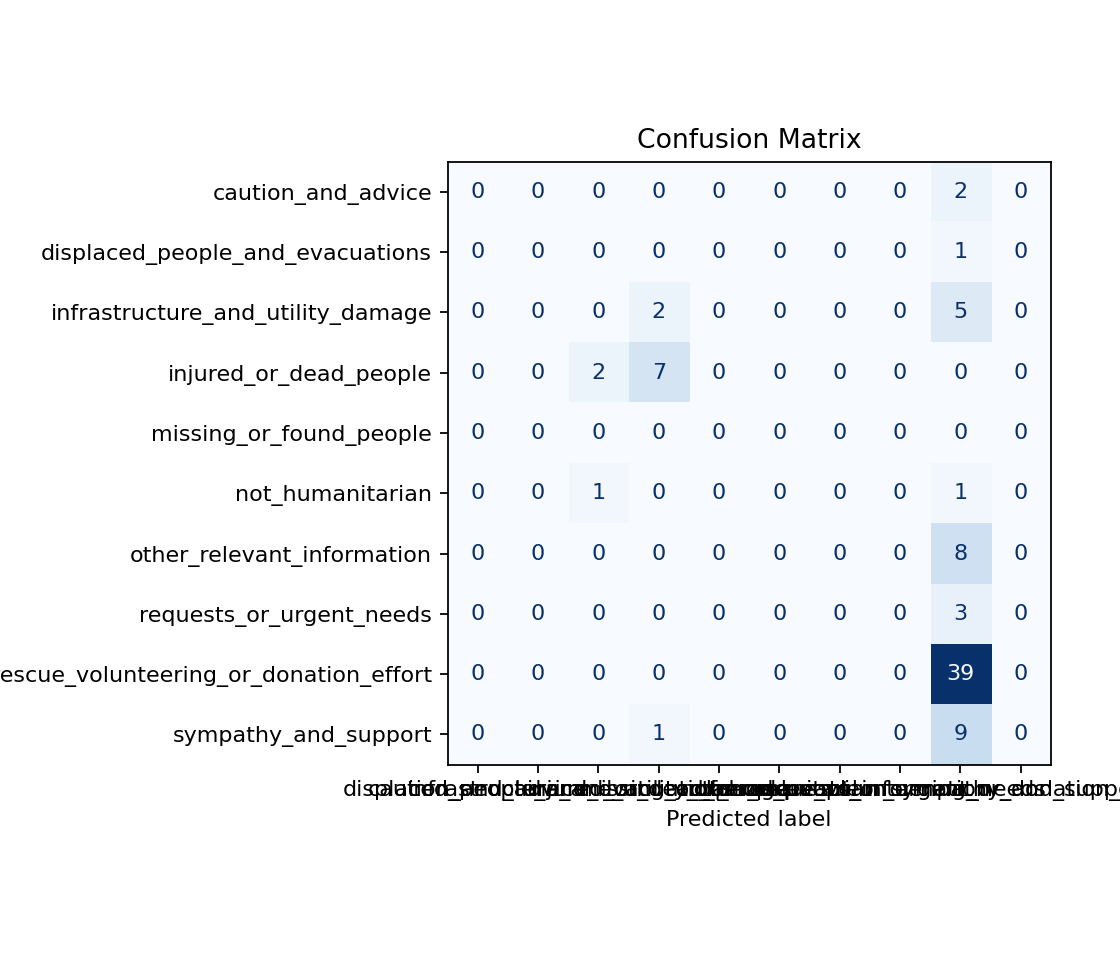
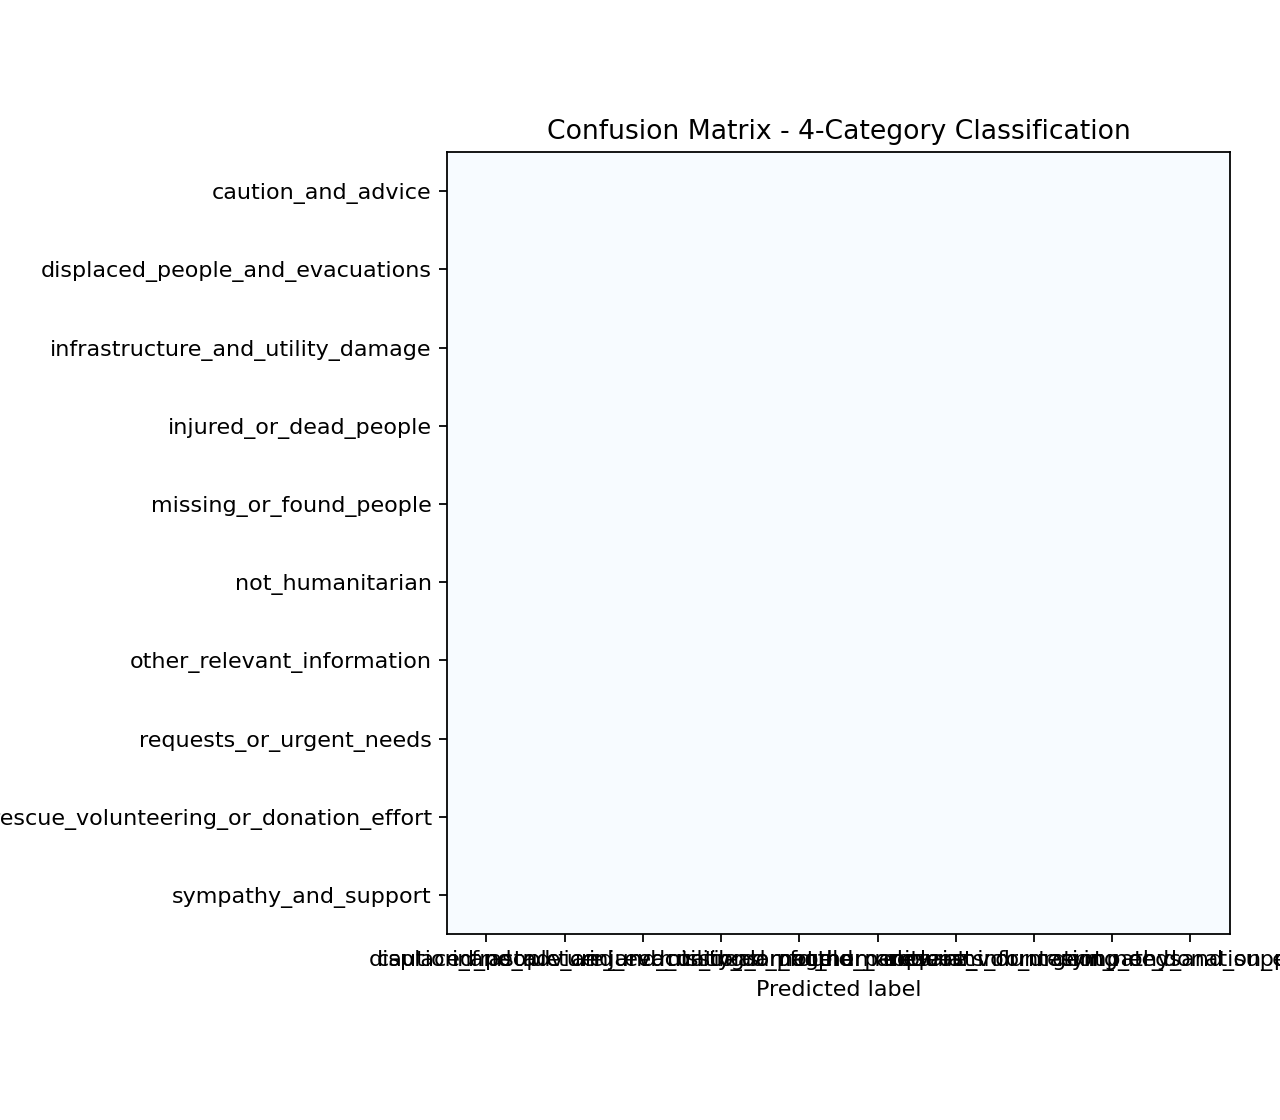
Complete model training with 5 epochs and generate evaluation reports

diff --git a/scripts/evaluate_model.py b/scripts/evaluate_model.py
@@ -1,43 +1,33 @@
 from __future__ import annotations
 
 from pathlib import Path
-import importlib.util
-import sys
-
-import joblib
+import torch
+import numpy as np
 import matplotlib.pyplot as plt
 import pandas as pd
 from sklearn.metrics import ConfusionMatrixDisplay, classification_report, confusion_matrix
 from sklearn.model_selection import train_test_split
+from transformers import AutoModelForSequenceClassification, AutoTokenizer, pipeline
 
 BASE_DIR = Path(__file__).resolve().parents[1]
 DATASET_PATH = BASE_DIR / "datasets" / "disaster_tweets.csv"
-MODEL_PATH = BASE_DIR / "models" / "model.joblib"
+MODEL_DIR = BASE_DIR / "models" / "distilbert_model"
 OUTPUT_DIR = BASE_DIR / "outputs" / "charts"
 
-
-def ensure_model_classes_loaded() -> None:
-    model_path = BASE_DIR / "scripts" / "train_model.py"
-    if not model_path.exists():
-        return
-    spec = importlib.util.spec_from_file_location("train_model", model_path)
-    if spec is None or spec.loader is None:
-        return
-    module = importlib.util.module_from_spec(spec)
-    spec.loader.exec_module(module)
-    main_mod = sys.modules.get("__main__")
-    if not main_mod:
-        return
-    for attr in ("TextPreprocessor", "FeatureEngineer", "passthrough_text"):
-        if hasattr(module, attr):
-            setattr(main_mod, attr, getattr(module, attr))
+# Class labels mapping
+CLASS_LABELS = {
+    0: "General Information",
+    1: "Rescue Request",
+    2: "Damage Report",
+    3: "Safety Update"
+}
 
 
 def main() -> int:
     OUTPUT_DIR.mkdir(parents=True, exist_ok=True)
 
-    if not MODEL_PATH.exists():
-        print(f"[evaluate_model] Missing model: {MODEL_PATH}")
+    if not MODEL_DIR.exists():
+        print(f"[evaluate_model] Missing model: {MODEL_DIR}")
         print("[evaluate_model] Run: py scripts\\train_model.py")
         return 2
 
@@ -70,10 +60,24 @@ def main() -> int:
         X, y, test_size=0.2, random_state=42, stratify=y if y.nunique() > 1 else None
     )
 
-    ensure_model_classes_loaded()
-    model = joblib.load(MODEL_PATH)
-    y_pred = model.predict(X_test)
-
+    # Load model and tokenizer
+    device = 0 if torch.cuda.is_available() else -1
+    model = AutoModelForSequenceClassification.from_pretrained(str(MODEL_DIR))
+    tokenizer = AutoTokenizer.from_pretrained(str(MODEL_DIR))
+    
+    # Create pipeline for inference
+    classifier = pipeline("text-classification", model=model, tokenizer=tokenizer, device=device)
+    
+    # Predict on test set
+    y_pred_labels = []
+    for text in X_test:
+        result = classifier(text, truncation=True, max_length=512)
+        # Pipeline returns the actual class label name
+        pred_label = result[0]["label"]
+        y_pred_labels.append(pred_label)
+    
+    y_pred = np.array(y_pred_labels)
+    
     report = classification_report(y_test, y_pred, digits=4)
     report_path = OUTPUT_DIR / "classification_report.txt"
     report_path.write_text(report, encoding="utf-8")
@@ -81,9 +85,9 @@ def main() -> int:
     labels = sorted(y.unique())
     cm = confusion_matrix(y_test, y_pred, labels=labels)
     disp = ConfusionMatrixDisplay(confusion_matrix=cm, display_labels=labels)
-    fig, ax = plt.subplots(figsize=(7, 6))
+    fig, ax = plt.subplots(figsize=(8, 7))
     disp.plot(ax=ax, cmap="Blues", values_format="d", colorbar=False)
-    ax.set_title("Confusion Matrix")
+    ax.set_title("Confusion Matrix - 4-Category Classification")
     plt.tight_layout()
     cm_path = OUTPUT_DIR / "confusion_matrix.png"
     plt.savefig(cm_path, dpi=160)

diff --git a/scripts/train_model.py b/scripts/train_model.py
@@ -158,7 +158,7 @@ def main() -> int:
 
     # Load best weights and save
     model.load_state_dict(best_state)
-    model.save_pretrained(str(MODEL_DIR))
+    model.save_pretrained(str(MODEL_DIR), save_safetensors=False)
     tokenizer.save_pretrained(str(MODEL_DIR))
     print(f"[train_model] Saved DistilBERT model to: {MODEL_DIR}")
 
